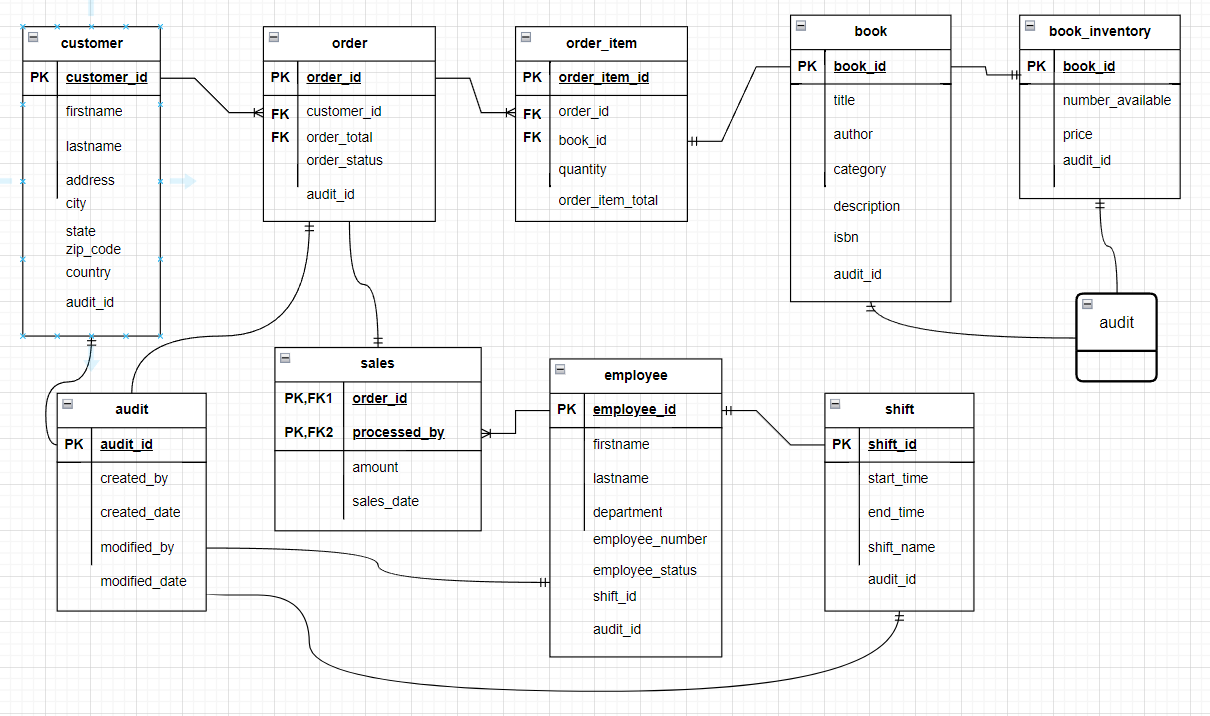
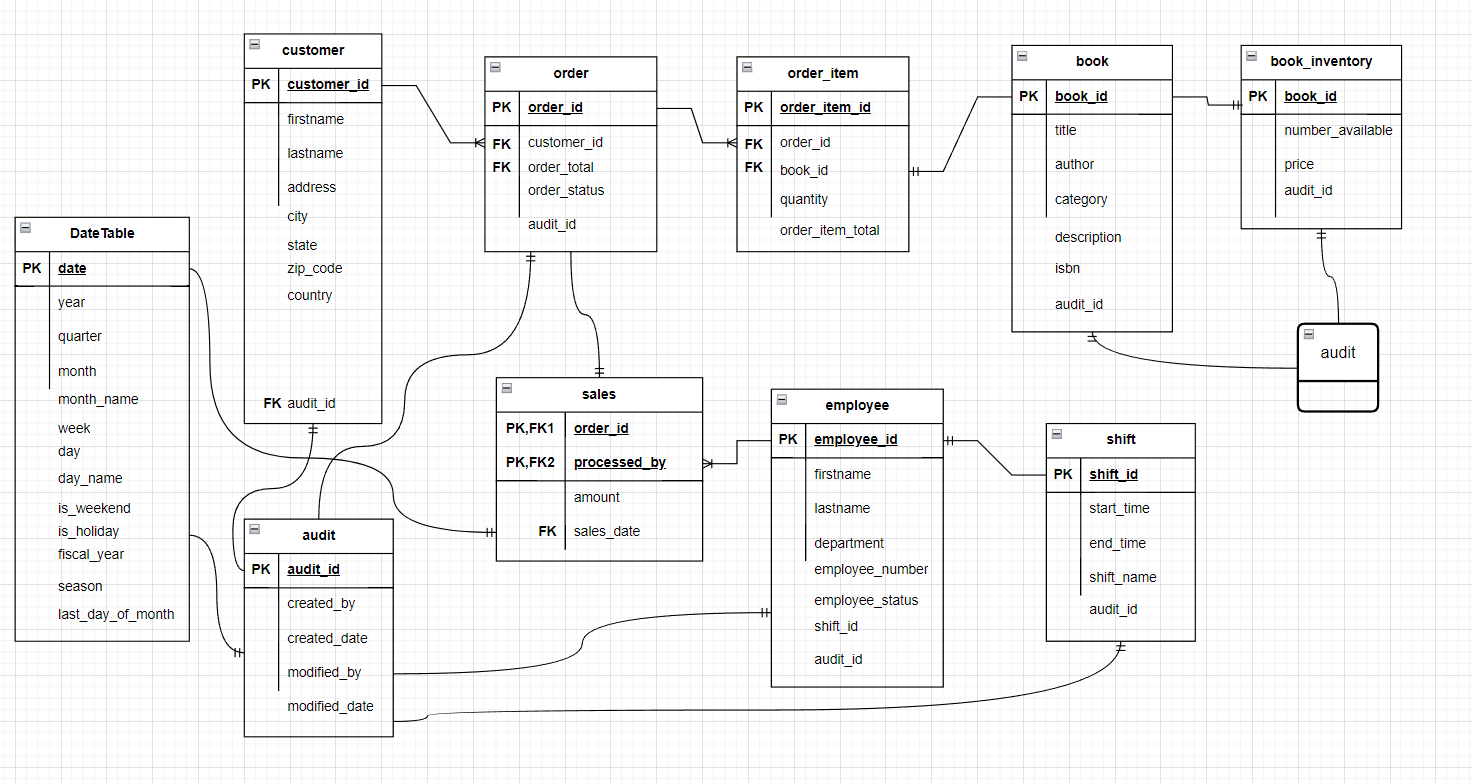
modified erds to add date table. add participant name on assignment

diff --git a/02_activities/assignments/design_a_logical_model.md b/02_activities/assignments/design_a_logical_model.md
@@ -1,3 +1,5 @@
+# Participant Name: Isaias Menorca
+
 # Assignment 1: Design a Logical Model
 
 ## Question 1
